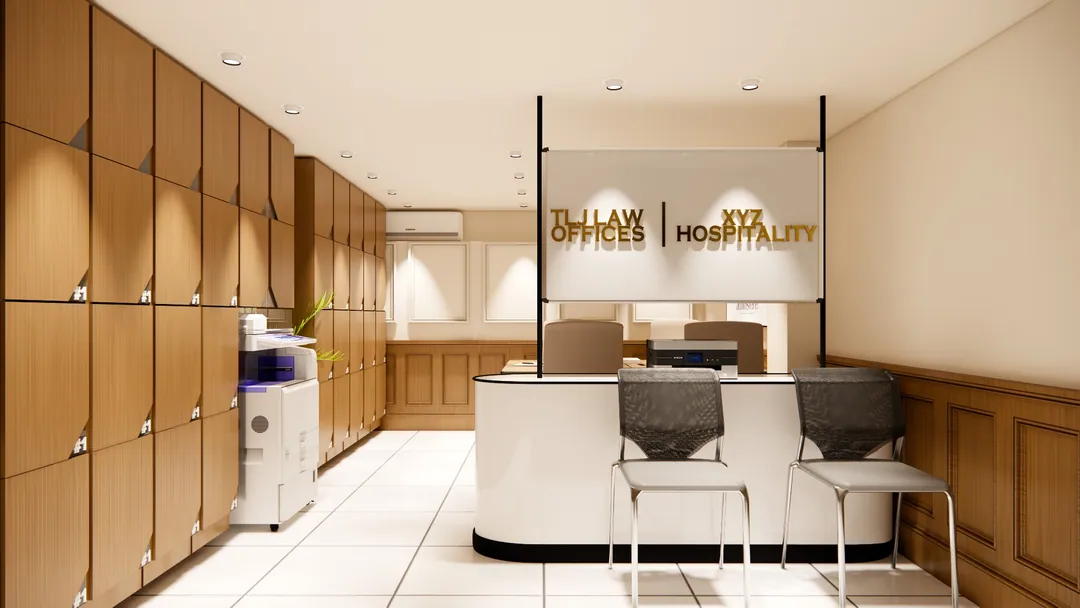
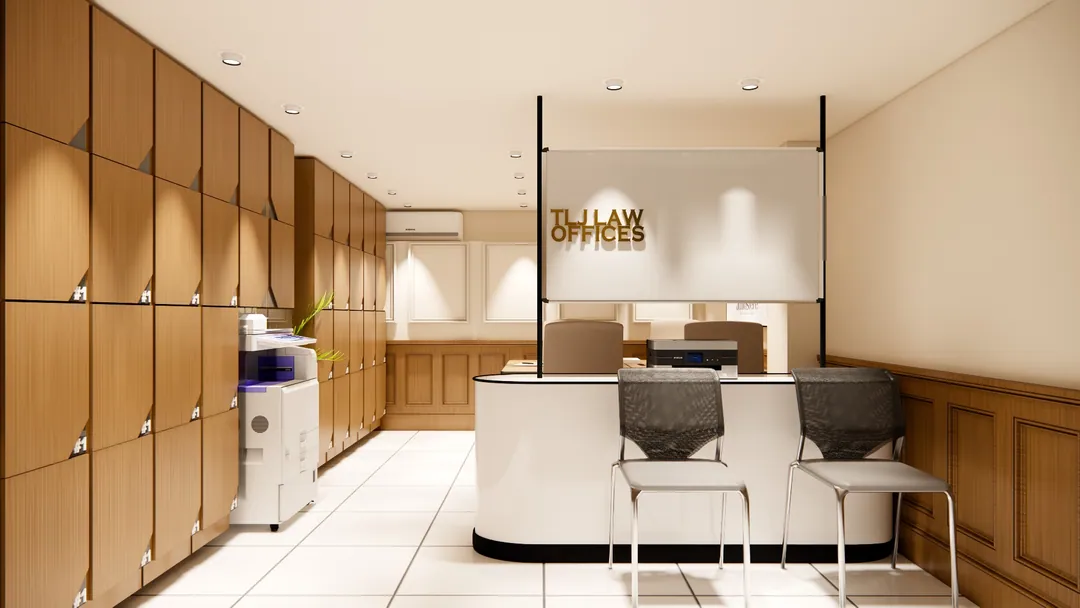
TLJ Offices: placeholder signage painted out
The basement reception's glass sign keeps the firm's name; the render's
placeholder second name and divider are removed.

Changed region(s): [[0.6111, 0.3125, 0.7639, 0.4375]]

diff --git a/src/data/spacesProjects.js b/src/data/spacesProjects.js
@@ -1259,8 +1259,7 @@ export const spacesProjects = [
     ],
   },
   {
-    // Real engagement: TLJ Law Offices (with KVA Hospitality) across a ground
-    // floor and a basement. Renders by the studio, June 2025; HD sources
+    // Real engagement: TLJ Law Offices across a ground floor and a basement. Renders by the studio, June 2025; HD sources
     // resampled for the site.
     slug: "tlj-offices",
     name: "TLJ Offices",
